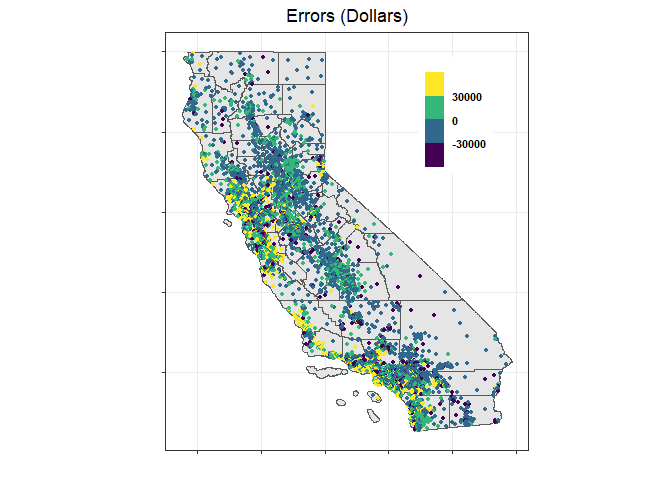
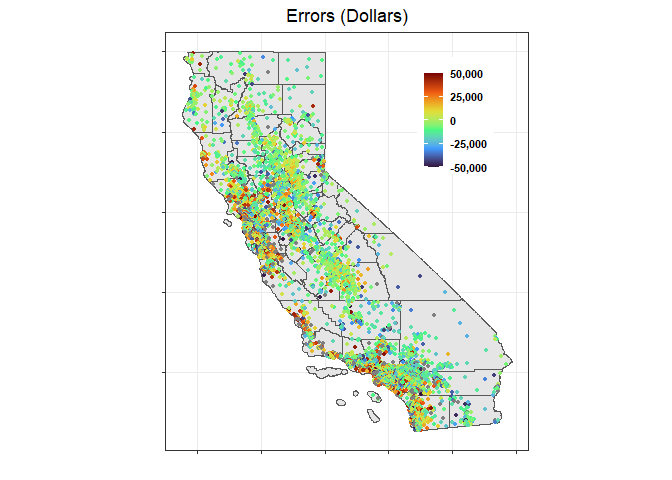
question 4 update

Changed region(s): [[0.2812, 0.0938, 0.75, 0.9062], [0.625, 0.125, 0.7188, 0.375]]

diff --git a/Homework-3/PS3.md b/Homework-3/PS3.md
@@ -40,23 +40,23 @@ significant after controlling for metro mid-day ridership.
 Let’s start with some step-wise models, using some medium linear models.
 Here are our initial out-of-sample RMSEs for both linear models:
 
-    ## [1] 970.9323
+    ## [1] 979.7368
 
-    ## [1] 1346.841
+    ## [1] 1357.384
 
 In these step-wise regressions, we allow the use of all variables except
 rent, leasing rate, property ID, LEED and Energystar, allowing for
 second-level interactions.
 
-    ## [1] 965.3916
+    ## [1] 967.8153
 
-    ## [1] 1252.233
+    ## [1] 1291.632
 
 There’s a slight improvement on out-of-sample RMSE, but not a large
 decrease. We may be able to use a random forest model to more accurately
 predict revenue per square foot per year.
 
-    ## [1] 679.1928
+    ## [1] 409.1368
 
 Our out-of-sample RMSE is much lower than the linear step models
 produced, so this is our best model to predict revenue per square foot
@@ -124,7 +124,7 @@ tree model equals 59,621.
 
 In the case of the random forest, due to the estimation process, we
 already have a measure of the out-of-sample performance with the
-“out-of-bag” predictions. However, We split our our observations in a
+“out-of-bag” predictions. However, we split our observations in a
 training and test set in order to have a comparable out of sample error.
 Using this entirely fresh subset of the data, the root mean squared
 error on the test set equals 50,520.
@@ -135,6 +135,10 @@ explanatory variables, the prediction model should be the random forest.
 
 The accuracy of these methods can be reevaluated after an expansion of
 the number of observations or number of explanatory variables.
+
+After selecting the best model, we proceed to present graphs of the
+original values, random forest predicted values and random forest
+model’s error.
 
 ## Original values
 
@@ -147,3 +151,6 @@ the number of observations or number of explanatory variables.
 ## Model’s errors (Original values - Predicted values)
 
 ![](PS3_files/figure-markdown_strict/unnamed-chunk-14-1.png)
+
+In the error graph, grey points correspond to those errors that are
+higher than 50,000 or lower than -50,000.
